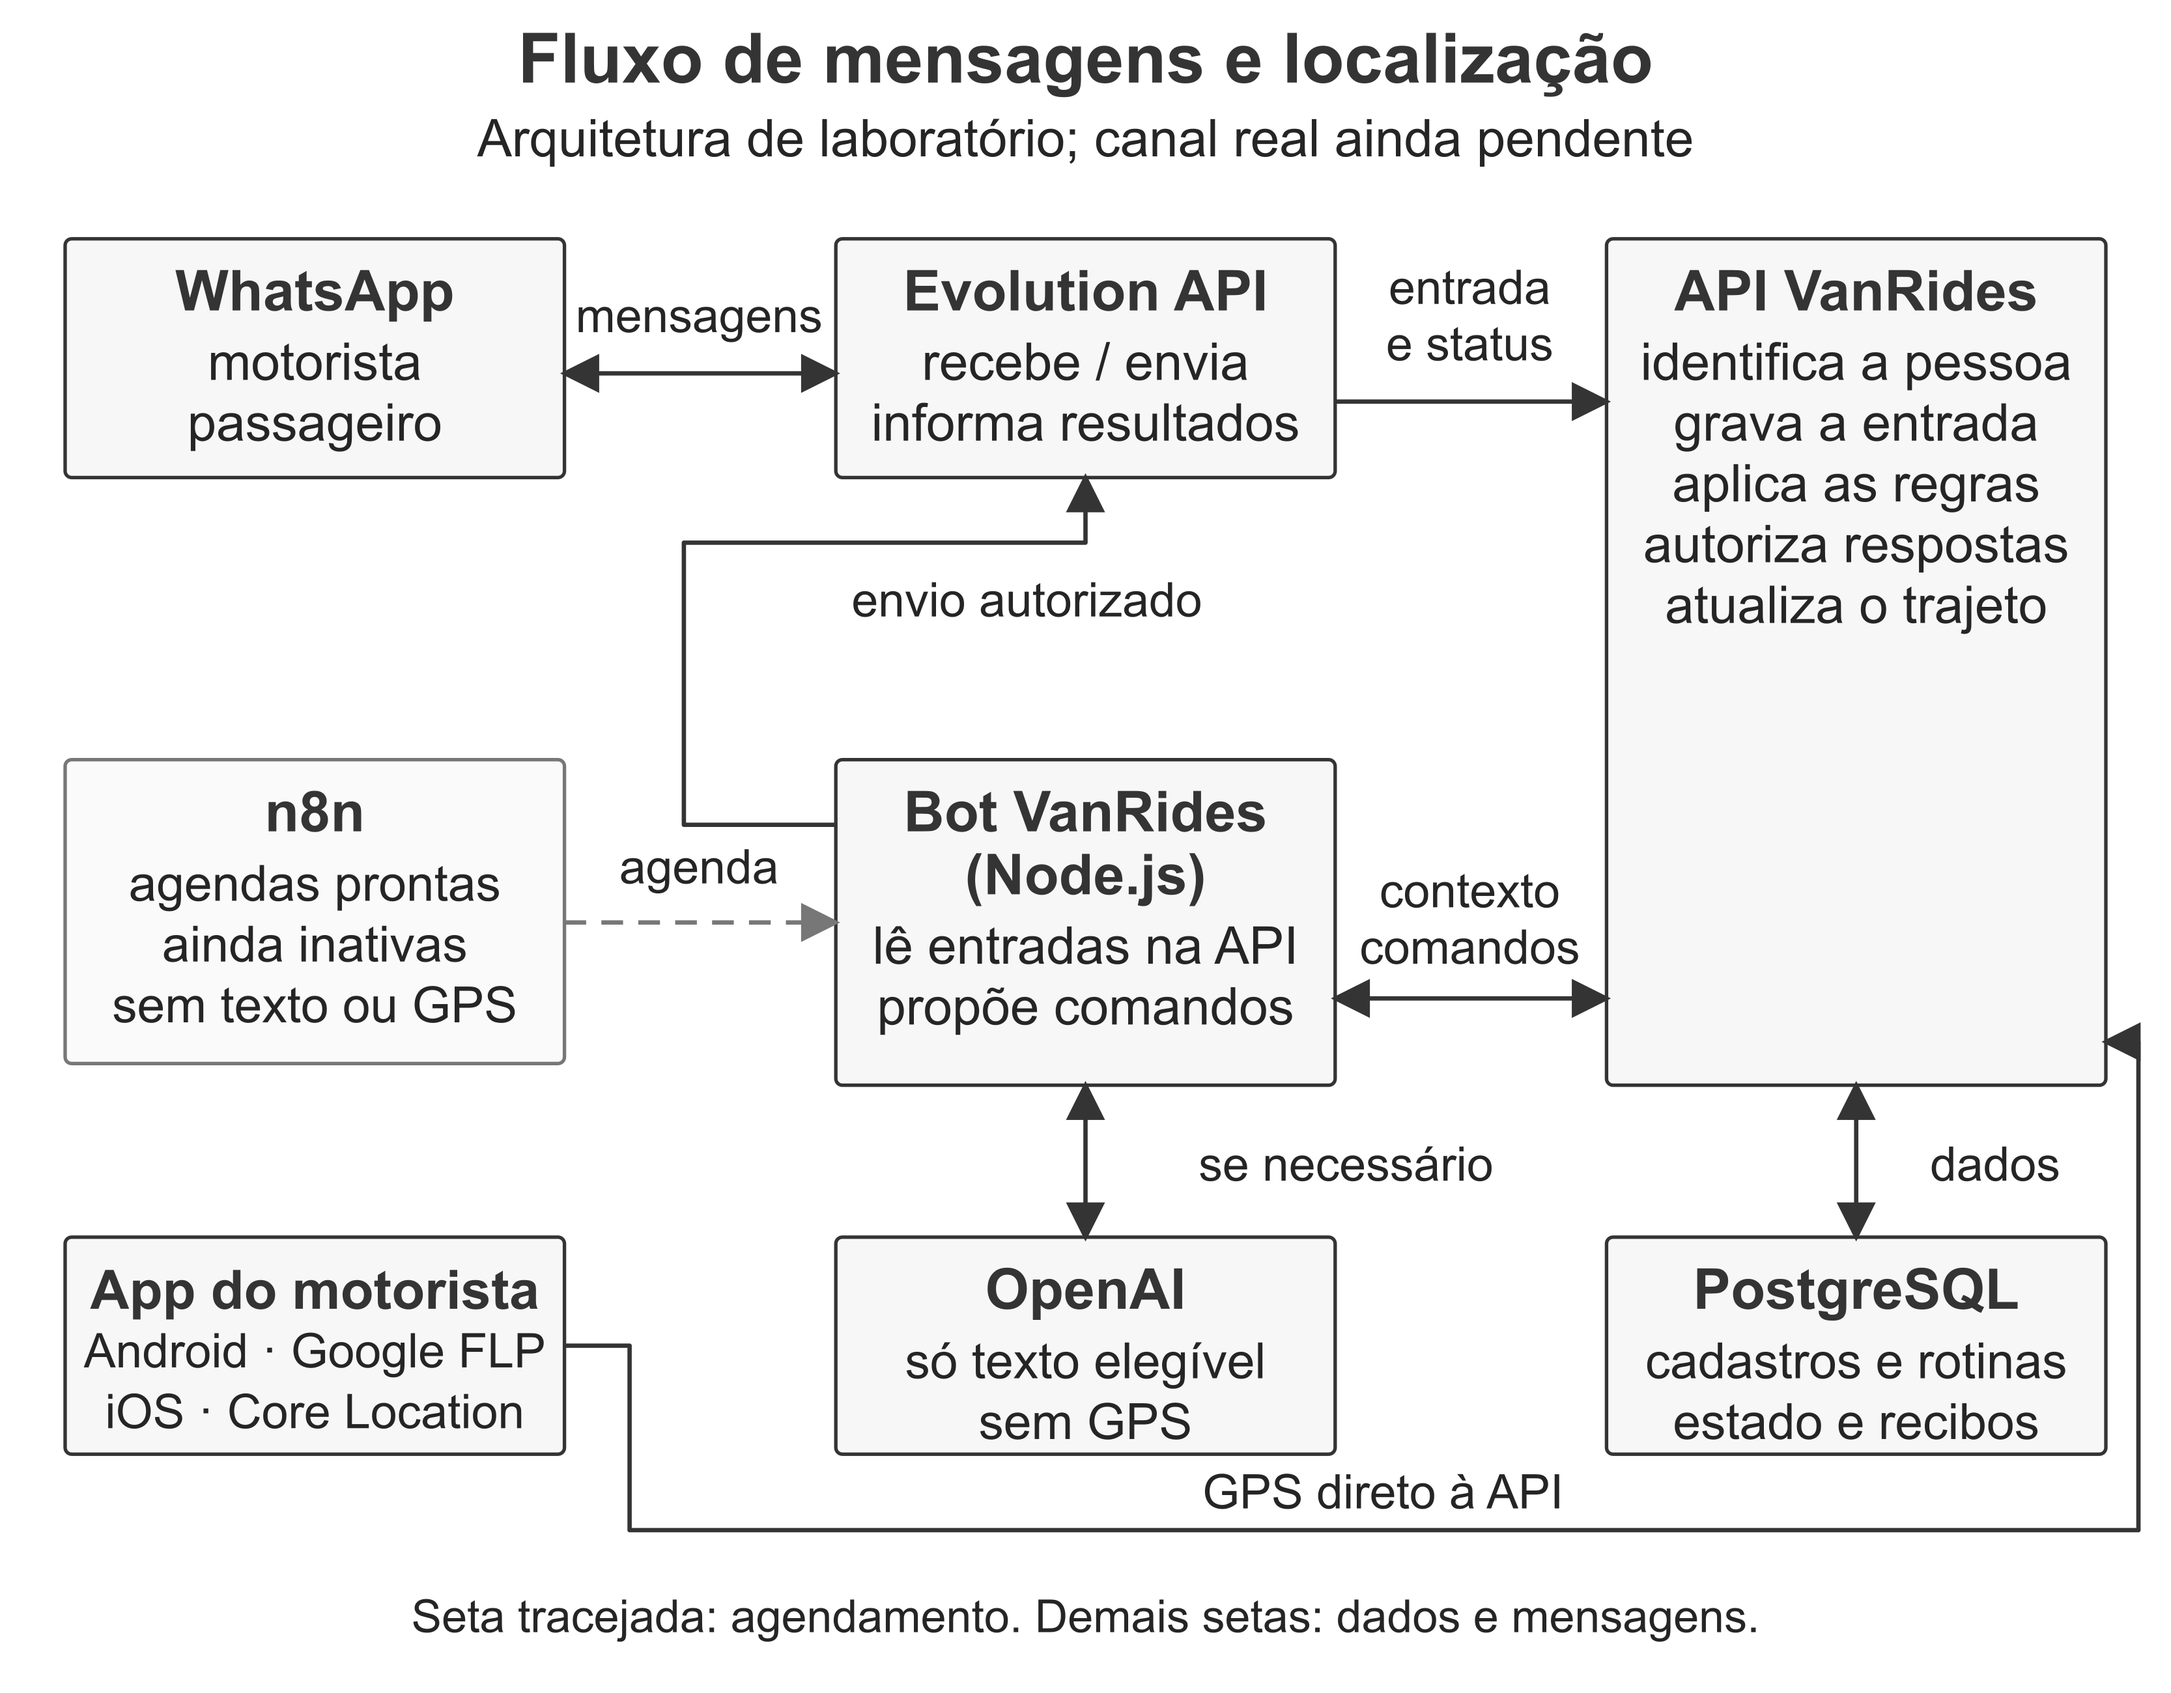
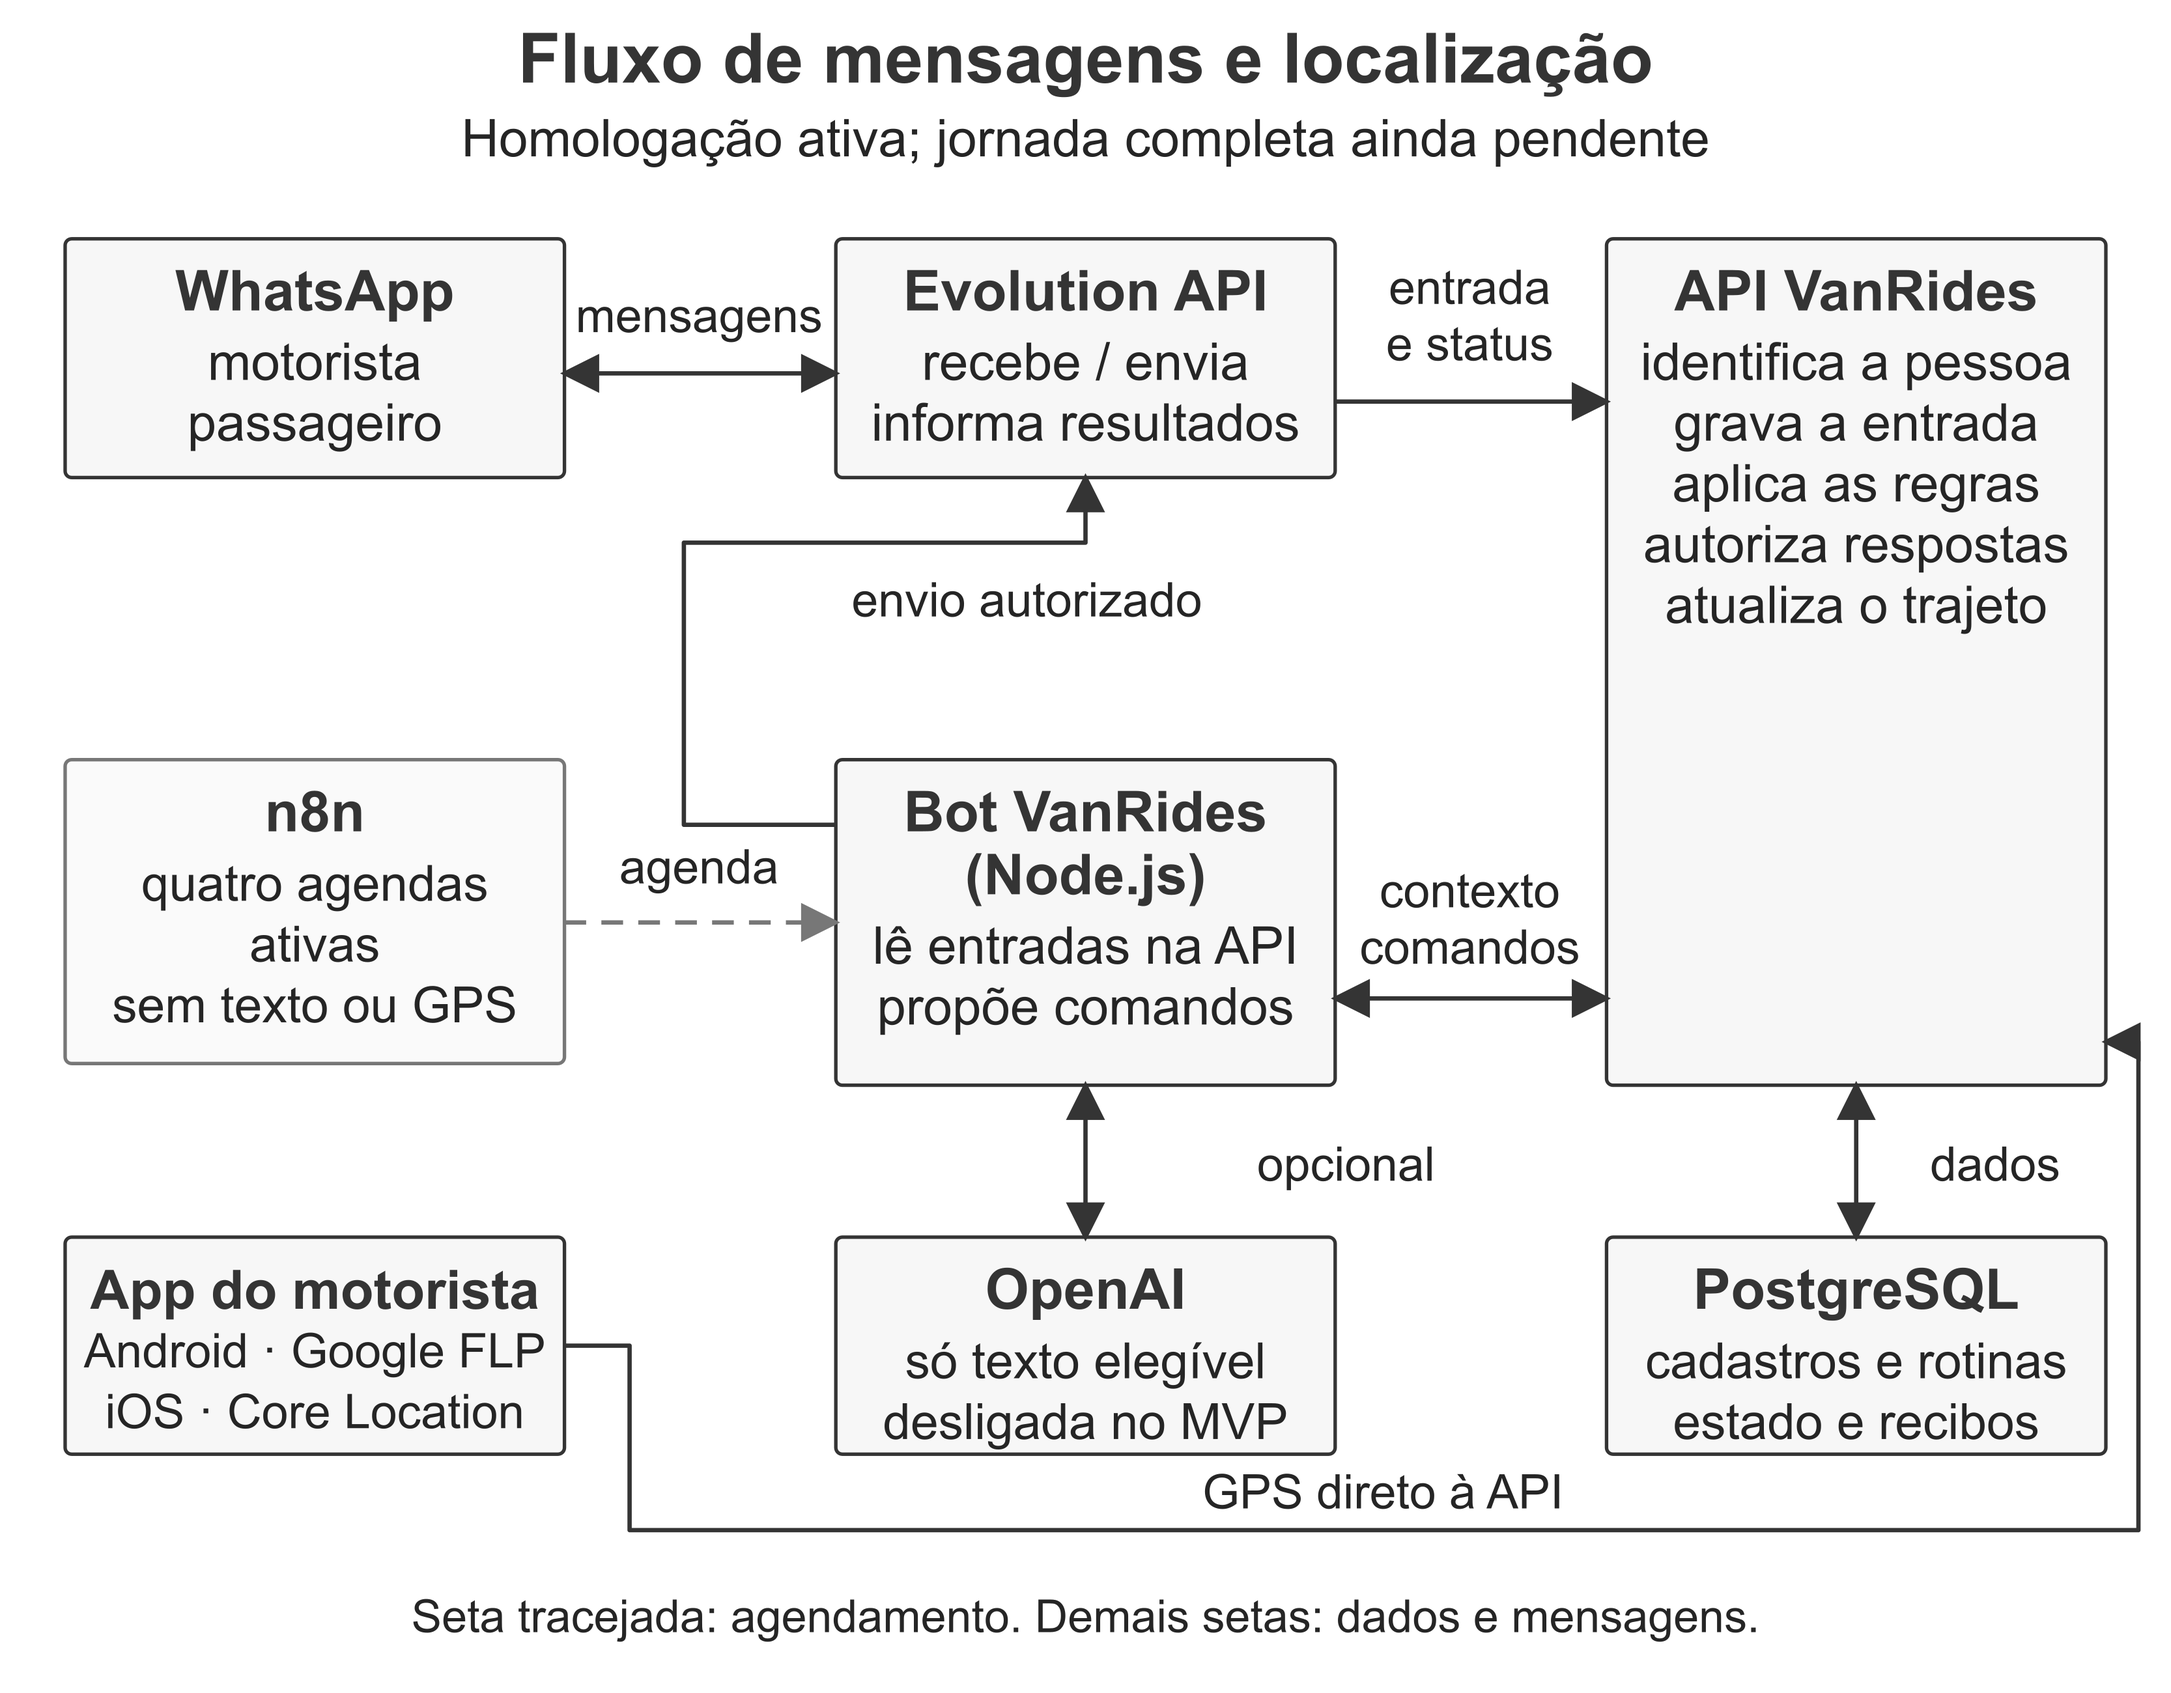
docs: sincronizar figuras editáveis com a STACK atual

diff --git a/docs/02-arquitetura-e-decisoes.md b/docs/02-arquitetura-e-decisoes.md
@@ -21,10 +21,11 @@ flowchart LR
 ```
 
 O desenho representa os componentes da homologação, com estado atualizado em
-16/11/2026. Os
-arquivos gráficos da entrega acadêmica anterior permanecem em `docs/assets/`
-como registro daquele momento; para operação atual use este fluxo e o
-[guia da equipe](desenvolvimento/homologacao-da-equipe.md).
+16/11/2026. As figuras editáveis de
+[componentes](assets/arquitetura-fluxo.svg) e [jornada](assets/jornada-fluxo.svg)
+ficam em `docs/assets/`, junto dos PNGs incorporados à STACK. Os diagramas
+atuais e o [guia da equipe](desenvolvimento/homologacao-da-equipe.md)
+orientam a operação; as versões anteriores permanecem no histórico Git.
 
 1. O WhatsApp entrega a mensagem à Evolution API. A Evolution envia a entrada
    e as atualizações de entrega ao receptor dedicado. Ele verifica a instância,
